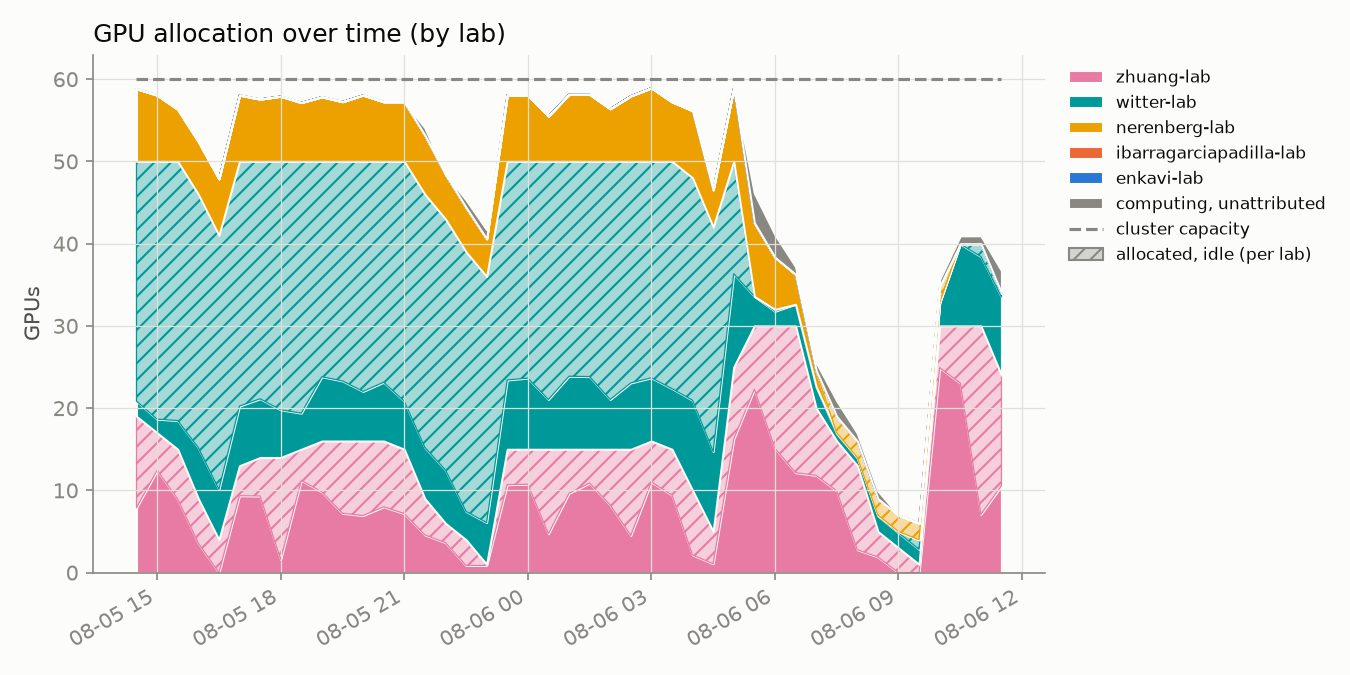
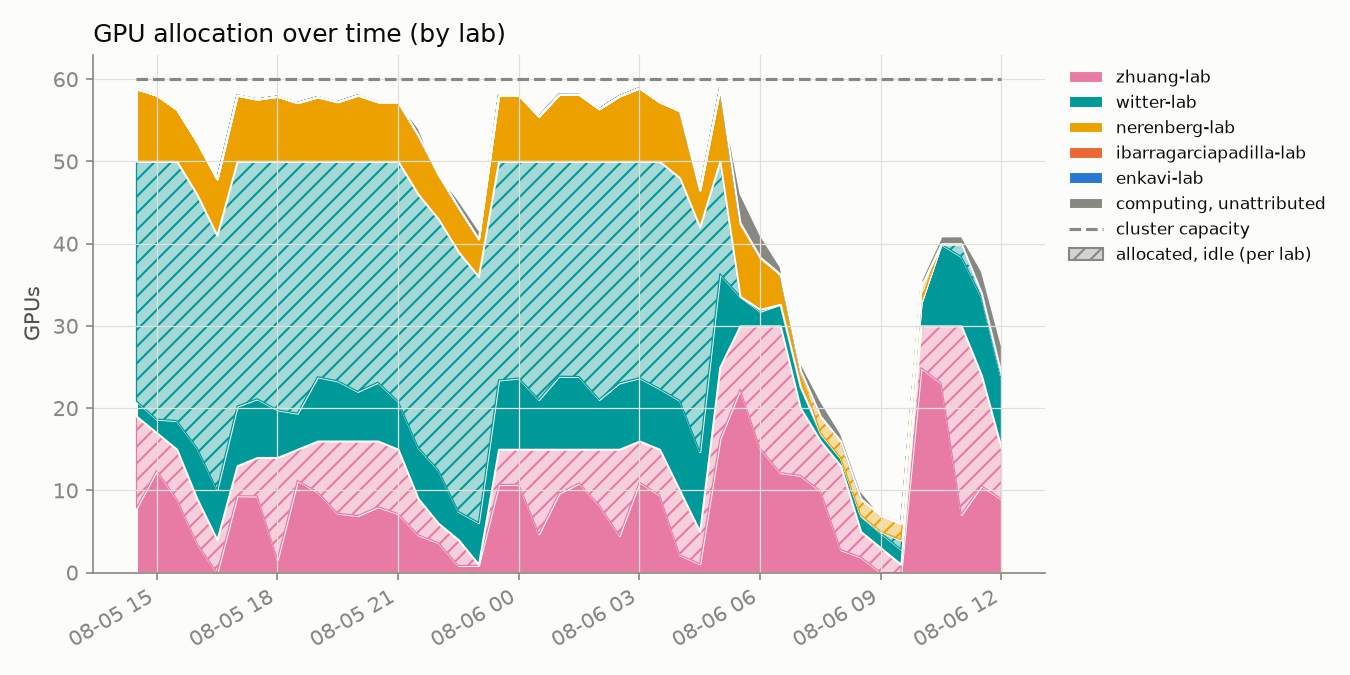
update 2026-08-06T12:00:01-07:00

diff --git a/README.md b/README.md
@@ -2,8 +2,8 @@
 
 Automated GPU/CPU/queue utilization tracker for `hopper.cluster`, updated every 30 minutes by cron. Usernames are anonymized to a stable per-account pseudonym; lab names are real.
 
-Last updated: 2026-08-06T11:30:20-07:00
-Samples: 43 queue snapshots, 43 GPU snapshots
+Last updated: 2026-08-06T12:00:19-07:00
+Samples: 44 queue snapshots, 44 GPU snapshots
 
 ## Resources
 
@@ -16,22 +16,22 @@ Samples: 43 queue snapshots, 43 GPU snapshots
 
 ## Headline
 
-- **71.0%** of the cluster's 60 GPUs allocated, averaged across all samples
-- **39.6%** average `nvidia-smi` utilization *when* a GPU is allocated to a job
-- **81.9%** average cgroup CPU utilization *when* a CPU is allocated to a job
+- **70.3%** of the cluster's 60 GPUs allocated, averaged across all samples
+- **39.8%** average `nvidia-smi` utilization *when* a GPU is allocated to a job
+- **82.0%** average cgroup CPU utilization *when* a CPU is allocated to a job
 
 ## Per lab / per user
 
 <table>
 <tr><th>Lab</th><th>User</th><th align='right'>GPU-hours allocated</th><th align='right'>CPU-hours allocated</th><th align='right'>GPU utilization</th></tr>
 <tr style='background-color:#d8efef'><td>witter-lab</td><td>user-d58f5a15</td><td align='right'>467.5</td><td align='right'>3740.0</td><td align='right'>9%</td></tr>
-<tr style='background-color:#fbebf1'><td>zhuang-lab</td><td>user-0db9ced0</td><td align='right'>328.5</td><td align='right'>328.5</td><td align='right'>48%</td></tr>
-<tr style='background-color:#d8efef'><td>witter-lab</td><td>user-554c620c</td><td align='right'>80.5</td><td align='right'>191.5</td><td align='right'>71%</td></tr>
+<tr style='background-color:#fbebf1'><td>zhuang-lab</td><td>user-0db9ced0</td><td align='right'>336.0</td><td align='right'>336.0</td><td align='right'>48%</td></tr>
+<tr style='background-color:#d8efef'><td>witter-lab</td><td>user-554c620c</td><td align='right'>85.0</td><td align='right'>196.0</td><td align='right'>70%</td></tr>
 <tr style='background-color:#fcf0d8'><td>nerenberg-lab</td><td>user-6bb5f332</td><td align='right'>40.0</td><td align='right'>200.0</td><td align='right'>71%</td></tr>
-<tr style='background-color:#fce8e0'><td>ibarragarciapadilla-lab</td><td>user-3cfc41a3</td><td align='right'>0.0</td><td align='right'>2400.0</td><td align='right'>—</td></tr>
-<tr style='background-color:#fce8e0'><td>ibarragarciapadilla-lab</td><td>user-eec7ffae</td><td align='right'>0.0</td><td align='right'>234.5</td><td align='right'>—</td></tr>
-<tr style='background-color:#fcf0d8'><td>nerenberg-lab</td><td>user-b12dc074</td><td align='right'>0.0</td><td align='right'>16.0</td><td align='right'>—</td></tr>
 <tr style='background-color:#dfeaf8'><td>enkavi-lab</td><td>user-c21bdaa4</td><td align='right'>0.0</td><td align='right'>14.0</td><td align='right'>—</td></tr>
+<tr style='background-color:#fcf0d8'><td>nerenberg-lab</td><td>user-b12dc074</td><td align='right'>0.0</td><td align='right'>16.0</td><td align='right'>—</td></tr>
+<tr style='background-color:#fce8e0'><td>ibarragarciapadilla-lab</td><td>user-3cfc41a3</td><td align='right'>0.0</td><td align='right'>2437.5</td><td align='right'>—</td></tr>
+<tr style='background-color:#fce8e0'><td>ibarragarciapadilla-lab</td><td>user-eec7ffae</td><td align='right'>0.0</td><td align='right'>234.5</td><td align='right'>—</td></tr>
 </table>
 
 (Row background is each lab's chart color, lightened, matching the charts above. GitHub strips inline CSS, so this table renders plain on github.com; the tint shows in renderers that keep inline styles, e.g. a local Markdown preview.)
@@ -44,7 +44,7 @@ Samples: 43 queue snapshots, 43 GPU snapshots
 
 Both charts share the same structure: solid color is *utilized* by lab, translucent + hatched (same color) on top of it is that lab's *allocated but idle*, solid gray above that is usage that couldn't be traced to a job or lab, and the dashed line is total cluster capacity - any gap above it is unallocated headroom. CPU utilization comes from cgroup v2 accounting (`cpu.stat`'s `usage_usec`, cumulative CPU time per job) read directly off each node, since `sstat` returns nothing usable for this on this cluster.
 
-Attribution is cross-referenced two ways: `nvidia-smi`'s own process listing (misses containerized/namespaced processes), backfilled from Slurm's GPU-to-job binding record (`scontrol show job -dd`). The scontrol fallback attributed **1393** GPU readings this run that the process-listing path missed.
+Attribution is cross-referenced two ways: `nvidia-smi`'s own process listing (misses containerized/namespaced processes), backfilled from Slurm's GPU-to-job binding record (`scontrol show job -dd`). The scontrol fallback attributed **1413** GPU readings this run that the process-listing path missed.
 
 ## Queue
 
@@ -56,7 +56,7 @@ Only jobs Slurm is actively scoring for scheduling (has a `sprio` priority) coun
 
 ![CPU usage vs GPU usage, decayed](assets/cpu_gpu_usage.png)
 
-Each point is one user at one snapshot (n=252), not averaged over time, to show how a user's position moves rather than collapsing it to a single number. Both axes are usage decayed with Slurm's own ~7-day fairshare half-life (`PriorityDecayHalfLife` on this cluster), not a lifetime total or a per-day average.
+Each point is one user at one snapshot (n=255), not averaged over time, to show how a user's position moves rather than collapsing it to a single number. Both axes are usage decayed with Slurm's own ~7-day fairshare half-life (`PriorityDecayHalfLife` on this cluster), not a lifetime total or a per-day average.
 
 **CPU usage (x-axis) is essentially what earns priority here; GPU usage (y-axis) is what Slurm could weight the same way but doesn't**: `PriorityWeightTRES` is unset, and partition `main` has no `TRESBillingWeights` configured, so fairshare usage accounting bills by CPU count alone - a job holding 4 GPUs and 8 CPUs accrues the same usage debt as an 8-CPU, no-GPU job. The users worth a second look are in the **upper-left**: low decayed CPU usage (high, unpenalized fairshare priority) paired with high decayed GPU usage.
 
